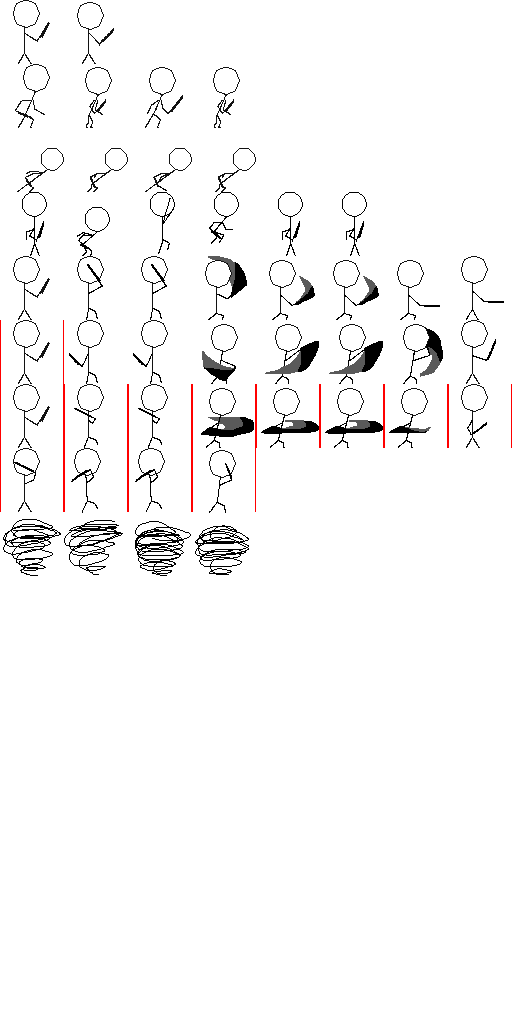
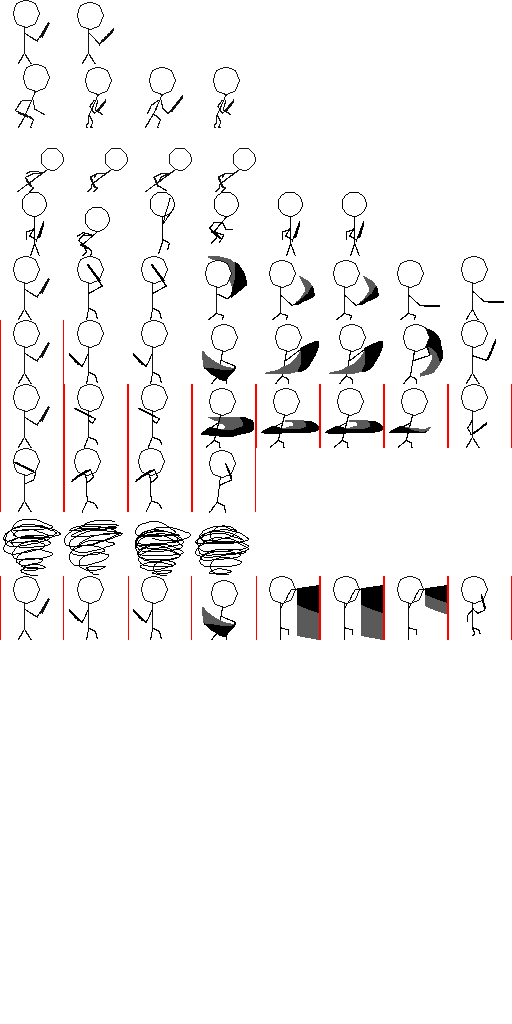
add sp up

diff --git a/src/application/player.c b/src/application/player.c
@@ -22,7 +22,8 @@ typedef enum
     PS_ATTACKING =              3,
     PS_DASH =                   4,
     PS_SPECIAL_NEUTRAL =        5,
-    PS_SPECIAL_DOWN =           6
+    PS_SPECIAL_DOWN =           6,
+    PS_SPECIAL_UP =             7
 } PlayerState;
 
 typedef enum
@@ -43,17 +44,20 @@ void player_attacking();
 uint8_t player_dash();
 uint8_t player_special_neutral();
 uint8_t player_special_down();
+uint8_t player_special_up();
 
 void player_special_neutral_perform(Entity *self);
 
 float walkDir = 0.0f;
 uint8_t left, right;
 uint8_t down = 0;
+uint8_t up = 0;
 PlayerState currentState = PS_IDLE;
 PhysicsEntity *phys = NULL;
 uint8_t attacking = 0;
 uint8_t canCombo = 0;
 float dash = 0.0f;
+uint8_t capSpUp = 0;
 
 void player_create(PhysicsEntity *self)
 {
@@ -103,6 +107,11 @@ void player_think(Entity *self)
             phys->useGravity = 1;
         }
     }
+    else if( player_special_up() )
+    {
+        currentState = PS_SPECIAL_UP;
+        capSpUp = 1;
+    }
     else if(phys && !phys->_onFloor)
     {
         attacking = 0;
@@ -128,6 +137,9 @@ void player_think(Entity *self)
     {
         currentState = PS_IDLE;
     }
+
+    if( phys->_onFloor )
+        capSpUp = 0;
 
     switch (currentState)
     {
@@ -274,6 +286,23 @@ void player_think(Entity *self)
             currentState = PS_SPECIAL_DOWN;
         }
         break;
+
+    case PS_SPECIAL_UP:
+        anim = pj_anim_recover();
+        frame = gf2d_animation_get_frame(self->anim);
+        if( player_play_anim(self->anim, anim, pj_anim_recover_speed()) )
+        {
+            currentState = PS_SPECIAL_UP;
+        }
+        else if ( frame >= anim[1] - 1 ) 
+        {
+            currentState = PS_IDLE;
+        }
+        else if ( frame >= anim[1] - 4 )
+        {
+            self->velocity.y = -15.0f;
+        }
+        break;
     
     default:
         if( self->anim->animation != ANIM_IDLE )
@@ -297,7 +326,7 @@ void player_update(Entity *self)
     if( dash > 0.0f ) self->velocity.x *= pj_dash()[1];
 
     /* jump */
-    if(phys->_onFloor && gf2d_input_key_just_pressed(SDL_SCANCODE_UP) ) 
+    if(phys->_onFloor && gf2d_input_key_just_pressed(SDL_SCANCODE_A) ) 
         player_jumping(self);
 
     /* make camera follow player */
@@ -377,6 +406,7 @@ uint8_t player_dash()
     return (mod && dir) || dash > 0.0f;
 }
 
+/* ==================SPECIAL NEUTRAL============== */
 uint8_t player_special_neutral()
 {
     return gf2d_input_key_just_pressed(SDL_SCANCODE_X) || currentState == PS_SPECIAL_NEUTRAL;
@@ -409,6 +439,7 @@ void player_special_neutral_perform(Entity *self)
     gf2d_scene_add_to_drawables(proj, DET_PHYS);
 }
 
+/* ======================SPECIAL DOWN============== */
 uint8_t player_special_down()
 {
     if( gf2d_input_key_just_pressed(SDL_SCANCODE_DOWN) )
@@ -420,6 +451,21 @@ uint8_t player_special_down()
         down = 0;
     }
     uint32_t btn = gf2d_input_key_just_pressed(SDL_SCANCODE_X) || currentState == PS_SPECIAL_DOWN;
-    slog("down %u btn %u state %u", down, btn, currentState == PS_SPECIAL_DOWN);
     return down && btn;
+}
+
+/* =======================SPECIAL UP=================== */
+uint8_t player_special_up()
+{
+    if( gf2d_input_key_just_pressed(SDL_SCANCODE_UP) )
+    {
+        up = 1;
+    }
+    else if (gf2d_input_key_released(SDL_SCANCODE_UP))
+    {
+        up = 0;
+    }
+    uint8_t btn = gf2d_input_key_just_pressed(SDL_SCANCODE_X) && !capSpUp; 
+    btn = btn || currentState == PS_SPECIAL_UP;
+    return up && btn;
 }

diff --git a/src/application/punti_jordan.c b/src/application/punti_jordan.c
@@ -36,6 +36,9 @@ typedef struct
 
     uint32_t                tornado[2];
     float                   tornadoSpeed;
+    
+    uint32_t                recover[2];
+    float                   recoverSpeed;
 } PuntiJordanConfig;
 
 static PuntiJordanConfig pj_config = {0};
@@ -59,6 +62,7 @@ void punti_jordan_load(const char *filename)
     punti_jordan_load_anim_values(pj_config.spinSwordAnim, &pj_config.spinSwordSpeed, sj_object_get_value(json, "spinSword"));
     punti_jordan_load_anim_values(pj_config.swordThrow, &pj_config.swordThrowSpeed, sj_object_get_value(json, "swordThrow"));
     punti_jordan_load_anim_values(pj_config.tornado, &pj_config.tornadoSpeed, sj_object_get_value(json, "tornado"));
+    punti_jordan_load_anim_values(pj_config.recover, &pj_config.recoverSpeed, sj_object_get_value(json, "recover"));
 
     punti_jordan_load_dash( sj_object_get_value(json, "dash") );
     punti_jordan_load_spin_sword( sj_object_get_value(json, "spinSword") );
@@ -178,4 +182,14 @@ uint32_t *pj_anim_tornado()
 float pj_anim_tornado_speed()
 {
     return pj_config.tornadoSpeed;
+}
+
+uint32_t *pj_anim_recover()
+{
+    return pj_config.recover;
+}
+
+float pj_anim_recover_speed()
+{
+    return pj_config.recoverSpeed;
 }

diff --git a/include/application/punti_jordan.h b/include/application/punti_jordan.h
@@ -32,4 +32,7 @@ void pj_spin_sword(Sprite **sprite, uint32_t **anim, float *animSpeed, float *fw
 uint32_t *pj_anim_tornado();
 float pj_anim_tornado_speed();
 
+uint32_t *pj_anim_recover();
+float pj_anim_recover_speed();
+
 #endif
